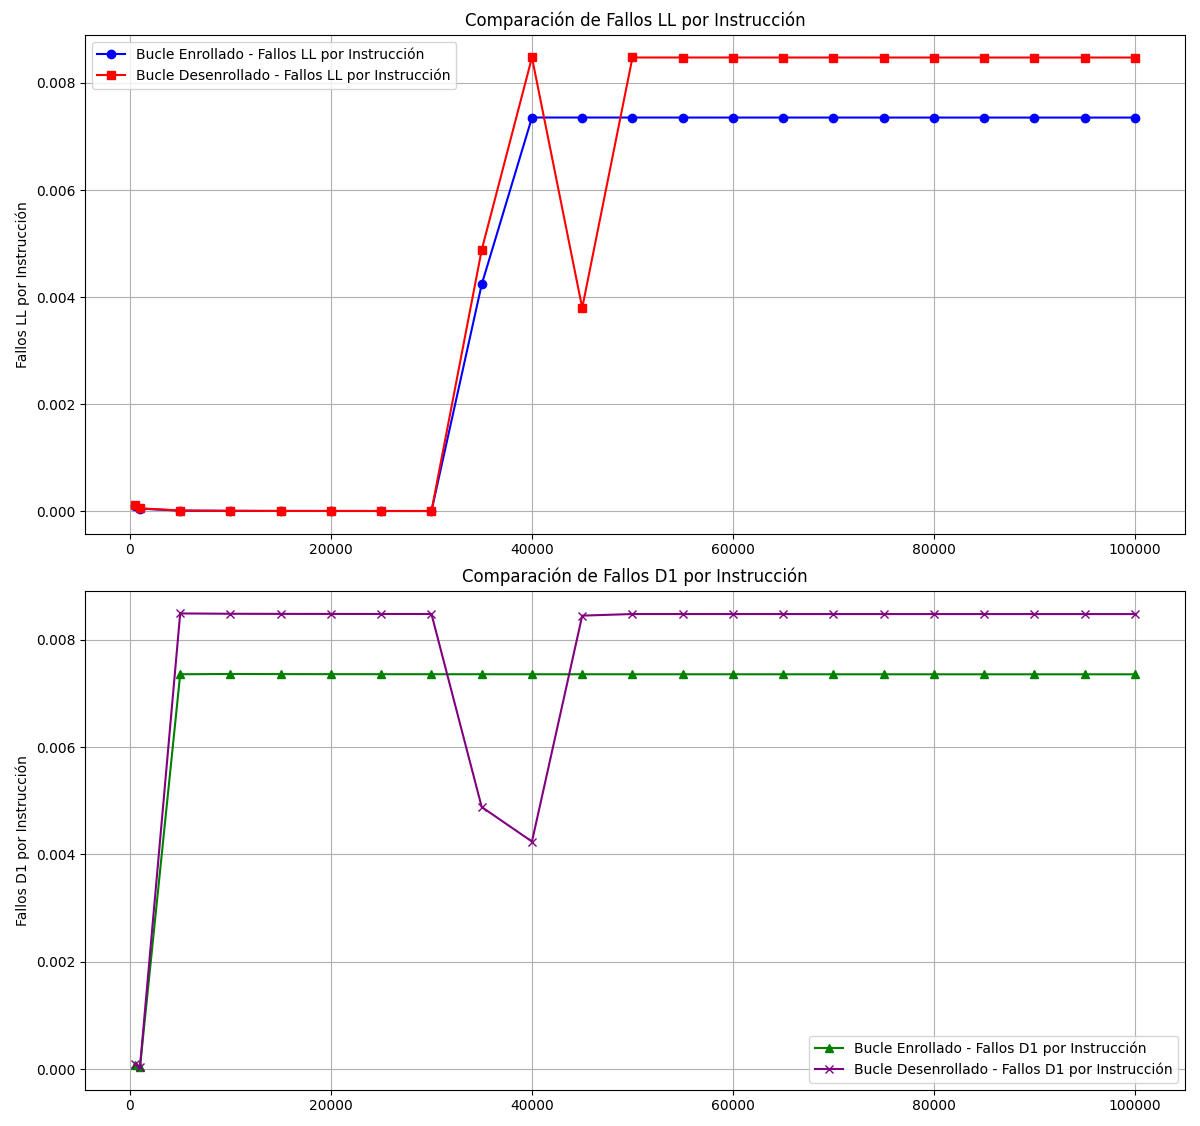
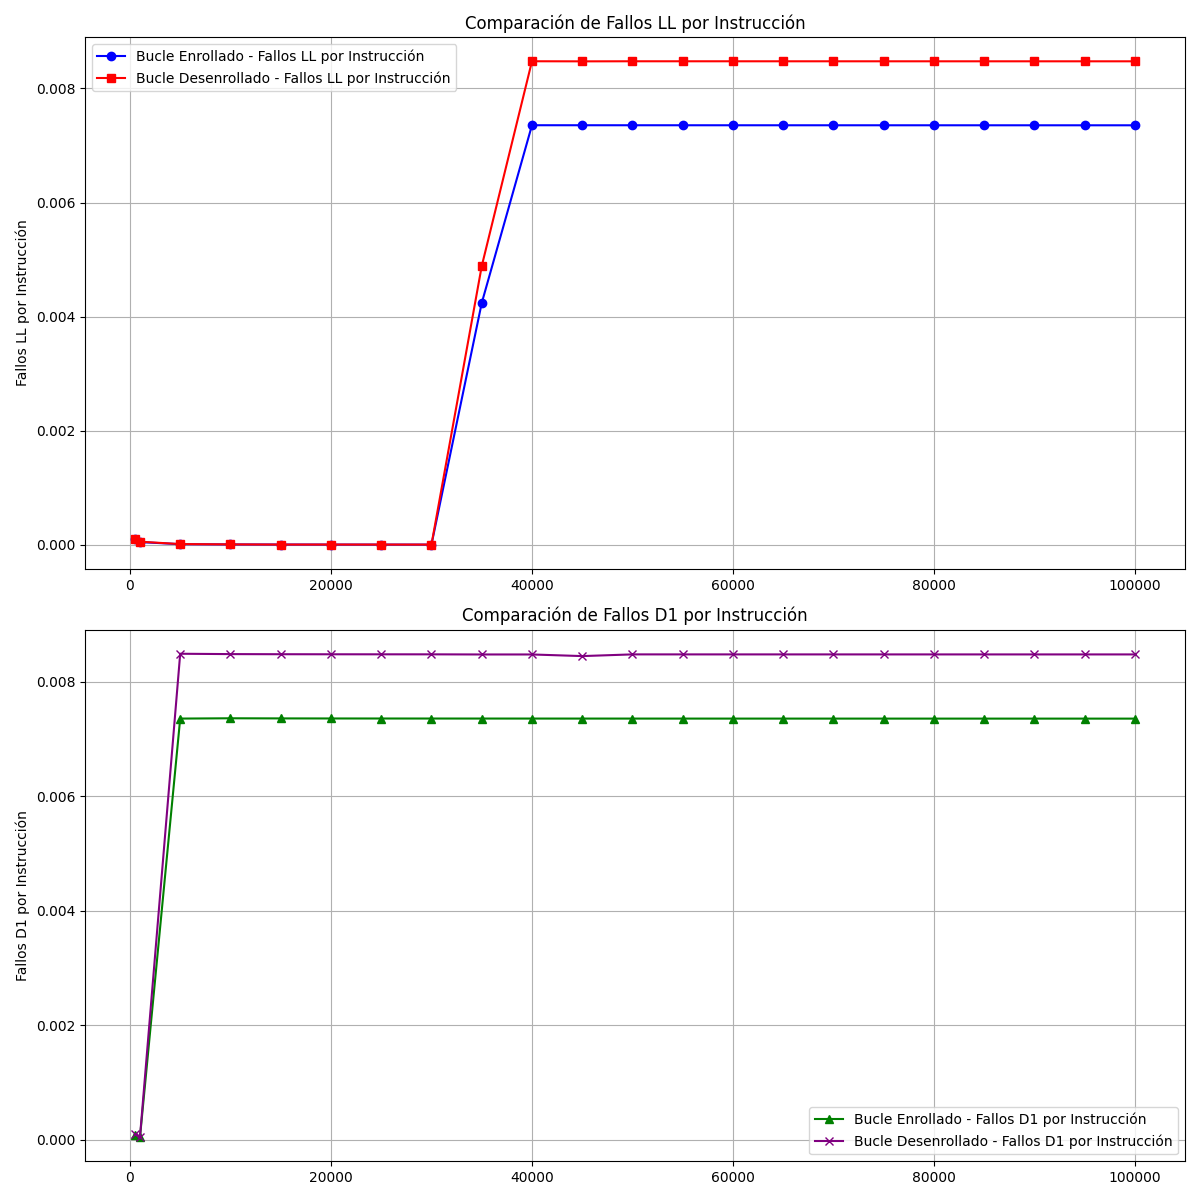
Bug fixing

diff --git a/docs/informe.tex b/docs/informe.tex
@@ -80,7 +80,7 @@
 \renewcommand{\maketitlehookd}{%
 	\begin{abstract}
 		\noindent En este informe, se abordará el tema del desenrolle de lazos para la optimización de operaciones de reducción, tal que se verá en que consiste la técnica y se comentarán experimentos.  \\\mbox{}\\
-		 \textbf{\textit{Palabras clave}: bucles, lazos, desenrollamiento, optimización\ldots}
+		 \textbf{\textit{Palabras clave}: bucles, lazos, unrolling, desenrollamiento, optimización\ldots}
 	\end{abstract}
 }
 
@@ -294,26 +294,6 @@ A partir del histograma, se pueden extraer varias conclusiones:
 
 Es importante considerar que el desenrollamiento de bucles puede introducir complejidad adicional en el código y podría aumentar el tamaño del binario final. Por lo tanto, la decisión de aplicar esta técnica debe balancear la mejora de rendimiento contra estos posibles inconvenientes.
 
-\subsection{Tiempo Real vs Tiempo de CPU}
-
-En este cuarto experimento, comparamos el tiempo de CPU con el tiempo real para ambas técnicas de ejecución del bucle, con el fin de observar diferencias entre estos y determinar si el desenrollamiento de lazos afecta de manera distinta a estos dos tipos de medición de tiempo.
-
-\begin{figure}[H]
-    \centering
-    \includegraphics[width=\columnwidth]{img/times.png}
-    \caption{Comparación del tiempo real versus el tiempo de CPU para bucles normal y desenrollado.}
-    \label{fig:real_vs_cpu_time}
-\end{figure}
-
-A partir de la gráfica obtenemos varias conclusiones:
-
-\begin{itemize}
-    \item Se observa que el tiempo de CPU y el tiempo real para el bucle normal son muy similares a lo largo de todas las iteraciones, lo que indica una correlación directa entre ellos y sugiere una eficiencia constante en la ejecución.
-    \item Para el bucle desenrollado, tanto el tiempo real como el de CPU son consistentemente menores en comparación con el bucle normal, reafirmando la efectividad del desenrollamiento en la reducción del tiempo total de ejecución.
-\end{itemize}
-
-Podemos concluir que dado que ambos tiempos para cada técnica son muy similares, las evaluaciones realizadas en este experimento acaban de confirmar lo concretado en los experimentos anteriores sobre la eficacia del desenrollamiento de bucles en la reducción del tiempo de ejecución.
-
 \subsection{Dispersión de Eficiencia de Caché}
 
 Como útlimo experimento vamos a estudiar la eficiencia de caché de ambas técnicas. Para ello, vamos a calcular los "misses" de caché para cada técnica, y veremos como eso afecta al tiempo de ejecución.
@@ -323,7 +303,7 @@ En términos de arquitectura de computadoras, los "misses" de caché, también c
 Para el estudio de lo anterior, utilizaremos la herremienta valgrind, con el siguiente comando:
 
 \begin{lstlisting}[caption={Comando para ejecutar valgrind},label={lst:codigoC}]
-    valgrind --tool=cachegrind ./unrolling <array size> <no. of iterations>
+    valgrind --tool=cachegrind ./unrolling <array size> <no. of iterations> -O0
 \end{lstlisting}
 
 Para el estudio de los resultados, separamos las técnicas en dos códigos diferentes, para poder hacer uso del valgrind de manera correcta. Fijamos el numero de iteraciones en 5000 y aumentamos el tamaño del vector, empezando por 500 y acabando en 100000, dando saltos de 5000 en 5000. 
@@ -353,15 +333,20 @@ Una vez ejecutamos el código, obtenemos los siguientes resultados:
 
     \begin{figure}[H]
         \centering
-        \includegraphics[width=\columnwidth]{img/cacheRatioAux.png}
-        \caption{Comparación de ratio de misses de caché para bucles normal y desenrollado.}
+        \includegraphics[width=\columnwidth]{img/Fallos_LL.png}
+        \label{fig:real_vs_cpu_time}
+    \end{figure}
+
+    \begin{figure}[H]
+        \centering
+        \includegraphics[width=\columnwidth]{img/Fallos_D1.png}
         \label{fig:real_vs_cpu_time}
     \end{figure}
 
     \begin{figure}[H]
         \centering
         \includegraphics[width=\columnwidth]{img/cacheRatioI1.png}
-        \caption{Comparación de ratio de misses de caché para bucles normal y desenrollado (2).}
+        \caption{Comparación de ratio de misses de caché para bucles normal y desenrollado.}
         \label{fig:real_vs_cpu_time}
     \end{figure}
 
@@ -374,12 +359,21 @@ Una vez ejecutamos el código, obtenemos los siguientes resultados:
 
 Con los resultados anteriores podemos concluir que en términos de eficiencia caché, a pesar de que el bucle desenrollado tiene menos fallos totales, el ratio de fallos por accesos es mayor, por lo que habría que considerarlo a la hora de aplicar la técnica.
 
+\section{Análisis del código ensamblador}
+
+Para finalizar, estudiamos el código ensamblador generado con la herramienta \href{https://godbolt.org/}{Godbolt}, para ver poder comparar el código generado por ambas técnicas.
+
+Como podemos comprobar al meter el código en la herramienta el código generado por el bucle desenrollado es mucho más largo que el generado por el bucle normal, lo que puede llevar a pensar que el desenrollamiento de lazos puede ser beneficioso en términos de tiempo de ejecución, pero perjudicial en términos de tamaño del binario final. 
+
+Por tanto, al ser el código generado más largo, la eficiencia espacial del código se ve reducida al introducir el desenrollamiento de bucles, lo que puede ser un factor a tener en cuenta a la hora de aplicar la técnica.
 
 %------------------------------------------------
 	
 \section{Conclusiones}
 
+Podemos concluir que una vez realizados los experimentos, el desenrollamiento de lazos es una técnica efectiva para la optimización de bucles en términos de tiempo de ejecución, pero tenemos que tener en cuenta que aumenta el tamaño del binario final y puede reducir la eficiencia espacial. 
 
+A pesar de todo esto, el "unrolling" resulta en la mayoría de casos una herramienta efectiva, y puede ayudar a reducir el tiempo de ejecución de los programas en bucles con un gran número de datos.
 
 %----------------------------------------------------------------------------------------
 %	Referencias
